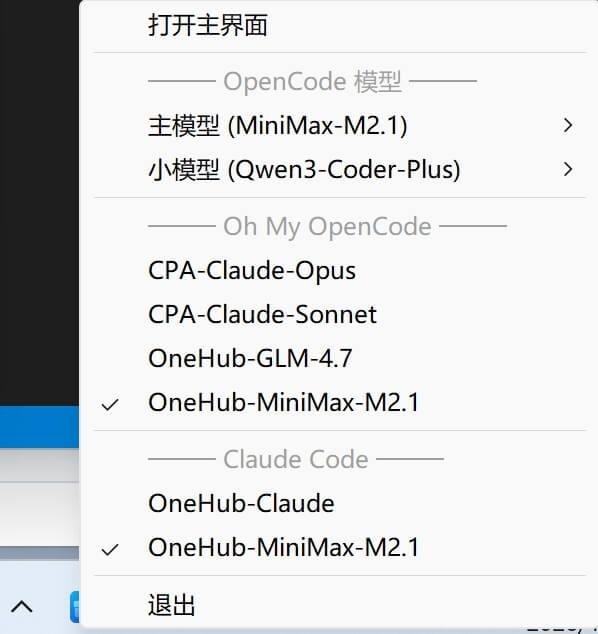
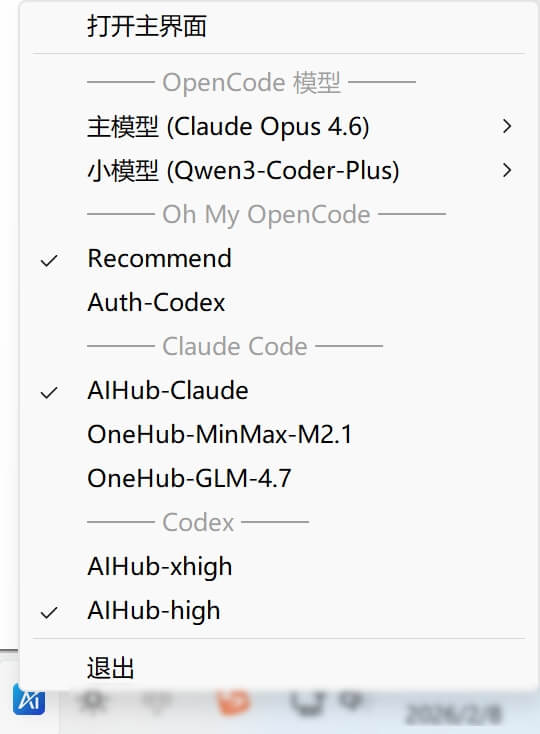
feat(ui): add user guidance hints to configuration pages
Add explanatory hint text to Claude Code, Codex, OhMyOpenCode, and OhMyOpenCodeSlim configuration pages to help users understand multi-config management, switching via Apply/system tray menu, and Common Config merging behavior. Translations added for both English and Chinese locales.

Original-Commit: 70165d6577f7b55037297e85e7e25b8baf4148d7

diff --git a/web/features/coding/opencode/components/OhMyOpenCodeSlimSettings.tsx b/web/features/coding/opencode/components/OhMyOpenCodeSlimSettings.tsx
@@ -294,6 +294,11 @@ const OhMyOpenCodeSlimSettings: React.FC<OhMyOpenCodeSlimSettingsProps> = ({
           style={{ marginBottom: 16 }}
         />
       )}
+      {!disabled && (
+        <Text type="secondary" style={{ fontSize: 12, display: 'block', marginBottom: 12 }}>
+          {t('opencode.ohMyOpenCodeSlim.sectionHint')}
+        </Text>
+      )}
       {configs.length === 0 ? (
         <Empty
           description={t('opencode.ohMyOpenCodeSlim.emptyText')}

diff --git a/web/features/coding/opencode/components/OhMyOpenCodeSettings.tsx b/web/features/coding/opencode/components/OhMyOpenCodeSettings.tsx
@@ -329,6 +329,11 @@ const OhMyOpenCodeSettings: React.FC<OhMyOpenCodeSettingsProps> = ({
           style={{ marginBottom: 16 }}
         />
       )}
+      {!disabled && (
+        <Text type="secondary" style={{ fontSize: 12, display: 'block', marginBottom: 12 }}>
+          {t('opencode.ohMyOpenCode.sectionHint')}
+        </Text>
+      )}
       {configs.length === 0 ? (
         <Empty
           description={t('opencode.ohMyOpenCode.emptyText')}

diff --git a/web/features/coding/codex/pages/CodexPage.tsx b/web/features/coding/codex/pages/CodexPage.tsx
@@ -449,6 +449,9 @@ settingsConfig = JSON.stringify(settingsConfigObj);
                 </Link>
               )}
             </div>
+            <Text type="secondary" style={{ fontSize: 12, display: 'block', marginBottom: 4 }}>
+              {t('codex.pageHint')}
+            </Text>
             <Space size="small">
               <Text type="secondary" style={{ fontSize: 12 }}>
                 {t('codex.configPath')}:

diff --git a/web/features/coding/claudecode/pages/ClaudeCodePage.tsx b/web/features/coding/claudecode/pages/ClaudeCodePage.tsx
@@ -426,6 +426,9 @@ const ClaudeCodePage: React.FC = () => {
                 </Link>
               )}
             </div>
+            <Text type="secondary" style={{ fontSize: 12, display: 'block', marginBottom: 4 }}>
+              {t('claudecode.pageHint')}
+            </Text>
             <Space>
               <Text type="secondary" style={{ fontSize: 12 }}>
                 {t('claudecode.configPath')}:
